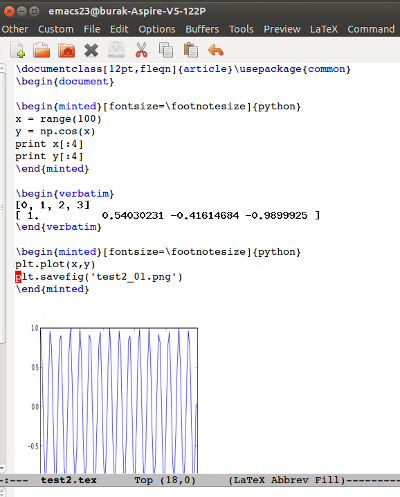
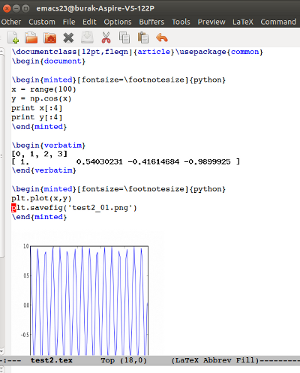
readme

diff --git a/README.md b/README.md
@@ -67,4 +67,4 @@ multiple `'pytexipy-notebook-run-py-code` calls.
   this command is useful for other purposes, such as wanting to clean
   up ipyton memory and starting from scratch, anytime. 
 
-![](emacs-ipython.png =300x340)
+![](emacs-ipython.png)
